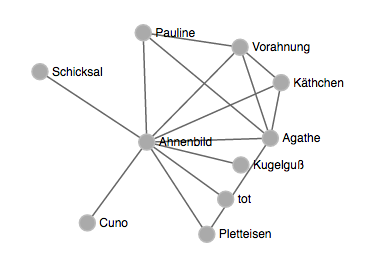
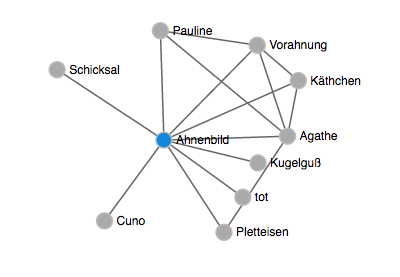
weitere Bilderreparatur

Changed region(s): [[0.0623, 0.0599, 0.9039, 0.9288], [0.5299, 0.6292, 0.561, 0.6592]]

diff --git a/dist/demo-the-freischuetz-network.html b/dist/demo-the-freischuetz-network.html
@@ -143,7 +143,7 @@
     <h4>Topics</h4> 
         <div class="row-fluid">
             <div class="span4">
-                <img class="img-polaroid" title="Das Freischütz Netzwerk" alt="Freischütz Netzwerk" src="pix/text_topic_map_viz_02.png"  width="100"/>
+                <img class="img-polaroid" title="Das Freischütz Netzwerk" alt="Freischütz Netzwerk" src="pix/text_topic_map_viz_02.png"  width="200"/>
                 <p style="font-size: 0.8em; margin-top: 5px; padding-left: 2px;">
                    Topic-Liste
                 </p>
@@ -155,16 +155,17 @@
         gezielte Suche nach einem Begriff bzw. Schlagwort.</p>
             </div>
         </div>
-        <div class="row-fluid">
-            <div class="span4">
-                <img class="img-polaroid" title="Das Freischütz Netzwerk" alt="Freischütz Netzwerk" src="pix/text_topic_map_viz_03.png"/>
-                <p style="font-size: 0.8em; margin-top: 5px; padding-left: 2px;">
-                    Topic-Liste
-                </p>
-            </div>
-            <div class="span8">
+        
                 <p>Der einzelne ausgewählte
         Topic-Eintrag nennt rechts neber den Liste den Begriffsname bzw. das gesuchte Schlagwort. </p>
+        <div class="row-fluid">
+            <div class="span5">
+                <img class="img-polaroid" title="Das Freischütz Netzwerk" alt="Freischütz Netzwerk" src="pix/text_topic_map_viz_06.png"/>
+                <p style="font-size: 0.8em; margin-top: 5px; padding-left: 2px;">
+                    Topic-Schlagworte
+                </p>
+            </div>
+            <div class="span7">
     <ul>
         <li>Varianten<br />Unterhalb des Suchbegriffes erscheinen zudem (im helleren Farbton)
             weitere in den Texten herangezogene Formen des Begriffes wie lexikalische Varianten,
@@ -208,13 +209,23 @@
             </div>
         </div>
     <h4>Instanzen und Relationen</h4>
-    <p>Rechts des Graphen werden zu einem die weiteren mit dem aufgerufenen Schlagwort
+        <div class="row-fluid">
+            <div class="span4">
+                <img class="img-polaroid" title="Das Freischütz Netzwerk" alt="Freischütz Netzwerk" src="pix/text_topic_map_viz_03.png"/>
+                <p style="font-size: 0.8em; margin-top: 5px; padding-left: 2px;">
+                    Topic-Liste
+                </p>
+            </div>
+            <div class="span8">
+    <p>Rechts des Graphen werden zum einem die weiteren mit dem aufgerufenen Schlagwort
         assoziierten Topics als auch die vorkommenden Relationen aufgelistet. Per Klick auf
         einem Topic oder ein Relationstyp wird dieser im Graph blau markiert.</p>
     <p>Begriffe und Namen stehen in unterschiedlichen Verhältnissen zueinander. Die
         Relationlinien zeigen ihre Relationsart, die farblich hervorgehoben werden können.
         Per Mouseover auf den Relationslinien wird die individuelle Relation zwischen zwei Topics angezeigt. Es
         werden folgende Relationen unterschieden:</p>
+            </div>
+        </div>
     <h5>Relationstypen</h5>
     <p>personelle Relationen:</p>
     <blockquote>

diff --git a/app/sites/demo-the-freischuetz-network.html b/app/sites/demo-the-freischuetz-network.html
@@ -34,7 +34,7 @@
     <h4>Topics</h4> 
         <div class="row-fluid">
             <div class="span4">
-                <img class="img-polaroid" title="Das Freischütz Netzwerk" alt="Freischütz Netzwerk" src="pix/text_topic_map_viz_02.png"  width="100"/>
+                <img class="img-polaroid" title="Das Freischütz Netzwerk" alt="Freischütz Netzwerk" src="pix/text_topic_map_viz_02.png"  width="200"/>
                 <p style="font-size: 0.8em; margin-top: 5px; padding-left: 2px;">
                    Topic-Liste
                 </p>
@@ -46,16 +46,17 @@
         gezielte Suche nach einem Begriff bzw. Schlagwort.</p>
             </div>
         </div>
-        <div class="row-fluid">
-            <div class="span4">
-                <img class="img-polaroid" title="Das Freischütz Netzwerk" alt="Freischütz Netzwerk" src="pix/text_topic_map_viz_03.png"/>
-                <p style="font-size: 0.8em; margin-top: 5px; padding-left: 2px;">
-                    Topic-Liste
-                </p>
-            </div>
-            <div class="span8">
+        
                 <p>Der einzelne ausgewählte
         Topic-Eintrag nennt rechts neber den Liste den Begriffsname bzw. das gesuchte Schlagwort. </p>
+        <div class="row-fluid">
+            <div class="span5">
+                <img class="img-polaroid" title="Das Freischütz Netzwerk" alt="Freischütz Netzwerk" src="pix/text_topic_map_viz_06.png"/>
+                <p style="font-size: 0.8em; margin-top: 5px; padding-left: 2px;">
+                    Topic-Schlagworte
+                </p>
+            </div>
+            <div class="span7">
     <ul>
         <li>Varianten<br />Unterhalb des Suchbegriffes erscheinen zudem (im helleren Farbton)
             weitere in den Texten herangezogene Formen des Begriffes wie lexikalische Varianten,
@@ -99,13 +100,23 @@
             </div>
         </div>
     <h4>Instanzen und Relationen</h4>
-    <p>Rechts des Graphen werden zu einem die weiteren mit dem aufgerufenen Schlagwort
+        <div class="row-fluid">
+            <div class="span4">
+                <img class="img-polaroid" title="Das Freischütz Netzwerk" alt="Freischütz Netzwerk" src="pix/text_topic_map_viz_03.png"/>
+                <p style="font-size: 0.8em; margin-top: 5px; padding-left: 2px;">
+                    Topic-Liste
+                </p>
+            </div>
+            <div class="span8">
+    <p>Rechts des Graphen werden zum einem die weiteren mit dem aufgerufenen Schlagwort
         assoziierten Topics als auch die vorkommenden Relationen aufgelistet. Per Klick auf
         einem Topic oder ein Relationstyp wird dieser im Graph blau markiert.</p>
     <p>Begriffe und Namen stehen in unterschiedlichen Verhältnissen zueinander. Die
         Relationlinien zeigen ihre Relationsart, die farblich hervorgehoben werden können.
         Per Mouseover auf den Relationslinien wird die individuelle Relation zwischen zwei Topics angezeigt. Es
         werden folgende Relationen unterschieden:</p>
+            </div>
+        </div>
     <h5>Relationstypen</h5>
     <p>personelle Relationen:</p>
     <blockquote>
